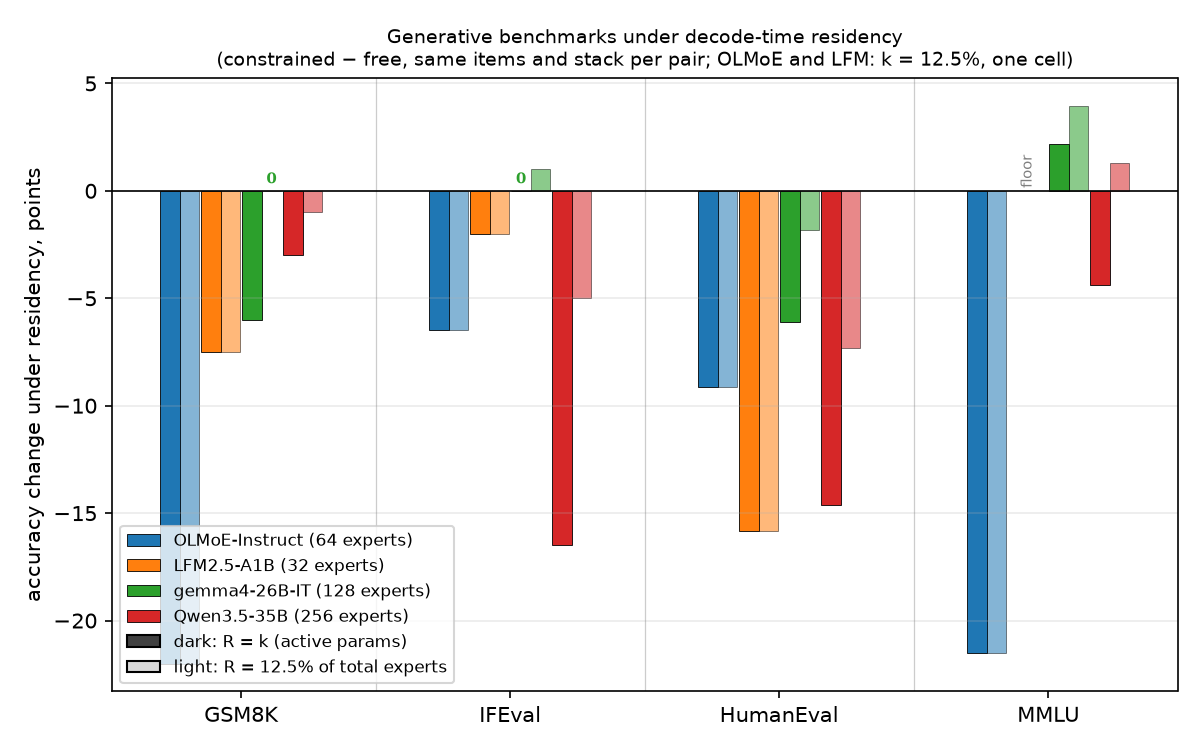
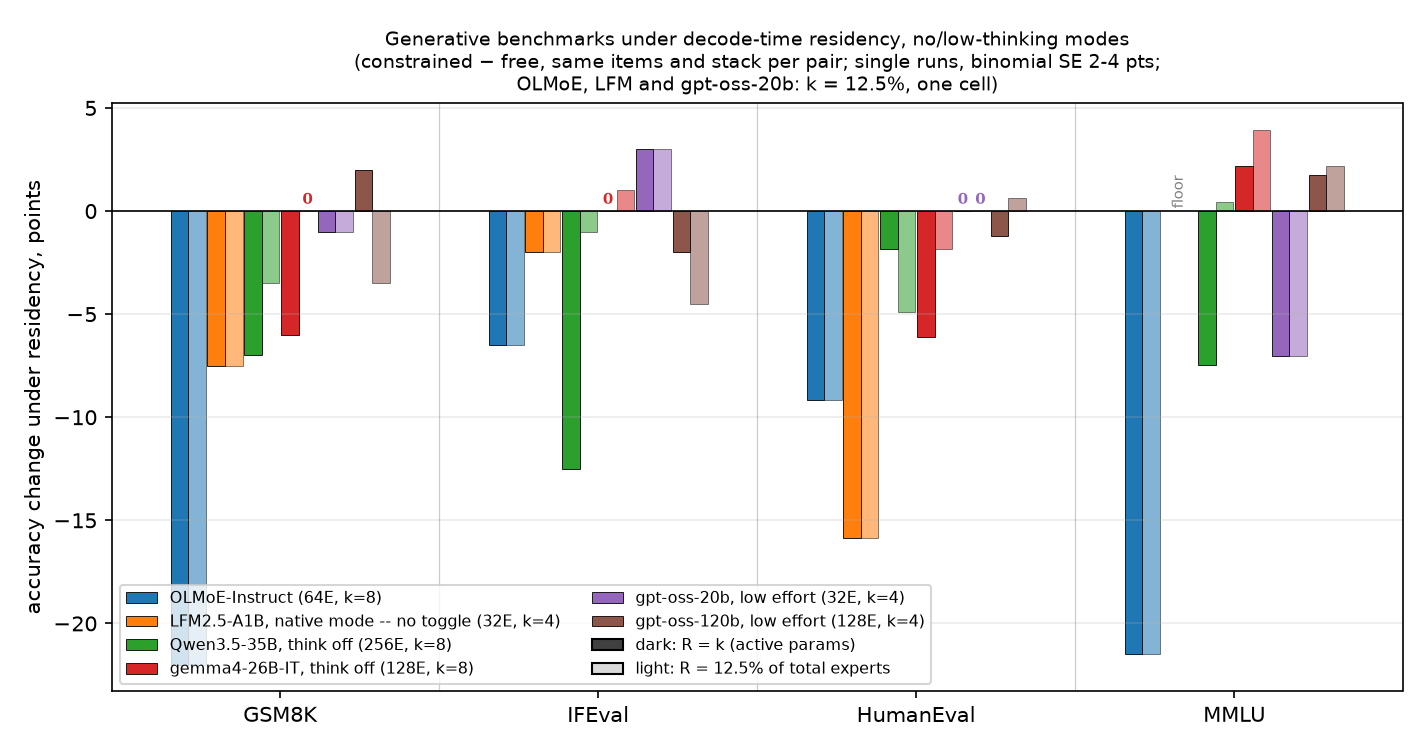
Per-benchmark damage figure: all six models, no/low-thinking modes, both residency levels (spec-driven bench())

diff --git a/analysis/residency/plot_instruct.py b/analysis/residency/plot_instruct.py
@@ -57,42 +57,59 @@ def selfce():
 
 
 def bench():
-    # deltas at R = 12.5% of E, per benchmark; floor cells excluded and marked
-    want = {"exact_match,flexible-extract": "GSM8K", "prompt_level_strict_acc,none": "IFEval",
-            "pass@1,create_test": "HumanEval", "exact_match,get-answer": "MMLU"}
-    arm125 = {"olmoe_instruct": "R8", "lfm25_instruct": "R4",
-              "gemma4_instruct": "R16", "qwen35_instruct": "R32"}
-    armk = {"olmoe_instruct": "R8", "lfm25_instruct": "R4",
-            "gemma4_instruct": "R8", "qwen35_instruct": "R8"}
-    floor = {("lfm25_instruct", "MMLU")}
+    # per-benchmark damage, all six models, no/low-thinking modes, both R levels
+    # (record, label, R=k arm, 12.5% arm, humaneval task, mmlu task; None = floor)
+    SPEC = [
+        ("olmoe_instruct", "OLMoE-Instruct (64E, k=8)", "R8", "R8",
+         "humaneval_instruct", "mmlu_flan_cot_fewshot"),
+        ("lfm25_instruct", "LFM2.5-A1B, native mode -- no toggle (32E, k=4)", "R4", "R4",
+         "humaneval_think", None),
+        ("qwen35_think_off", "Qwen3.5-35B, think off (256E, k=8)", "R8", "R32",
+         "humaneval_instruct", "mmlu_flan_cot_fewshot"),
+        ("gemma4_instruct", "gemma4-26B-IT, think off (128E, k=8)", "R8", "R16",
+         "humaneval_gemma_fixed", "mmlu_flan_cot_fewshot"),
+        ("gptoss_20b_low", "gpt-oss-20b, low effort (32E, k=4)", "R4", "R4",
+         "humaneval_gptoss", "mmlu_gptoss_relaxed"),
+        ("gptoss_120b_low", "gpt-oss-120b, low effort (128E, k=4)", "R4", "R16",
+         "humaneval_gptoss", "mmlu_gptoss_relaxed"),
+    ]
+    METRIC = {"gsm8k_cot_zeroshot": ("exact_match,flexible-extract",),
+              "ifeval": ("prompt_level_strict_acc,none",),
+              "mmlu_flan_cot_fewshot": ("exact_match,get-answer",),
+              "mmlu_gptoss_relaxed": ("acc,relaxed-extract",)}
     vals = {}
-    for f in ("instruct_genbench_vllm.csv",):   # live authoritative file only
-        for r in csv.reader(open(f"{ABLATIONS}/{f}")):
-            if len(r) > 8 and r[0] in NAMES and r[6] in want and r[8] != "10":
-                vals[(r[0], r[3], want[r[6]])] = float(r[7])
-            # channel-native humaneval variants are authoritative for think-in-text models
-            if len(r) > 7 and r[0] == "gemma4_instruct" and r[5] == "humaneval_gemma_fixed":
-                vals[(r[0], r[3], "HumanEval")] = float(r[7])
-            if len(r) > 7 and r[0] in ("lfm25_instruct", "qwen35_instruct") \
-                    and r[5] == "humaneval_think":
-                vals[(r[0], r[3], "HumanEval")] = float(r[7])
+    for r in csv.reader(open(f"{ABLATIONS}/instruct_genbench_vllm.csv")):
+        if len(r) < 10 or r[0].startswith("#") or r[0] == "model":
+            continue
+        rec, arm, task, met = r[0], r[3], r[5], r[6]
+        ok = met in METRIC.get(task, ()) or \
+            (task.startswith("humaneval") and met.startswith("pass@1"))
+        if ok:
+            vals[(rec, arm, task)] = float(r[7])
+
     benches = ["GSM8K", "IFEval", "HumanEval", "MMLU"]
-    models = list(NAMES)
-    fig, ax = plt.subplots(figsize=(8, 5))
+
+    def task_for(spec, b):
+        return {"GSM8K": "gsm8k_cot_zeroshot", "IFEval": "ifeval",
+                "HumanEval": spec[4], "MMLU": spec[5]}[b]
+
+    fig, ax = plt.subplots(figsize=(9.5, 5))
     cols = plt.cm.tab10(np.linspace(0, 1, 10))
-    w = 0.105
+    w = 0.08
     GX = 1.45                                    # group spacing factor
-    for i, m in enumerate(models):
-        for shade, (arms, tag) in enumerate((( armk, "R=k"), (arm125, "12.5%"))):
+    for i, spec in enumerate(SPEC):
+        rec, label = spec[0], spec[1]
+        for shade, (arm, tag) in enumerate(((spec[2], "R=k"), (spec[3], "12.5%"))):
             xs, ys = [], []
             for j, b in enumerate(benches):
-                x = j * GX + (i - 1.5) * 2.1 * w + (shade - 0.5) * w
-                if (m, b) in floor:
+                x = j * GX + (i - 2.5) * 2.1 * w + (shade - 0.5) * w
+                task = task_for(spec, b)
+                if task is None:
                     if shade == 0:
-                        ax.annotate("floor", (j * GX + (i - 1.5) * 2.1 * w, 0.3),
+                        ax.annotate("floor", (j * GX + (i - 2.5) * 2.1 * w, 0.3),
                                     fontsize=7, rotation=90, ha="center", color="grey")
                     continue
-                fr, cn = vals.get((m, "free", b)), vals.get((m, arms[m], b))
+                fr, cn = vals.get((rec, "free", task)), vals.get((rec, arm, task))
                 if fr is None or cn is None:
                     continue
                 d = 100 * (cn - fr)
@@ -103,7 +120,7 @@ def bench():
                 ys.append(d)
             ax.bar(xs, ys, width=w, color=cols[i], edgecolor="black", lw=0.4,
                    alpha=1.0 if shade == 0 else 0.55,
-                   label=NAMES[m] if shade == 0 else None)
+                   label=label if shade == 0 else None)
     for j in range(len(benches) - 1):
         ax.axvline((j + 0.5) * GX, color="grey", lw=0.6, alpha=0.4)
     from matplotlib.patches import Patch
@@ -115,12 +132,13 @@ def bench():
     ax.set_xticks([j * GX for j in range(len(benches))])
     ax.set_xticklabels(benches)
     ax.set_ylabel("accuracy change under residency, points")
-    ax.set_title("Generative benchmarks under decode-time residency\n"
-                 "(constrained − free, same items and stack per pair; "
-                 "OLMoE and LFM: k = 12.5%, one cell)", fontsize=9)
+    ax.set_title("Generative benchmarks under decode-time residency, no/low-thinking modes\n"
+                 "(constrained − free, same items and stack per pair; single runs, "
+                 "binomial SE 2-4 pts;\nOLMoE, LFM and gpt-oss-20b: k = 12.5%, one cell)",
+                 fontsize=9)
     handles, labels = ax.get_legend_handles_labels()
     ax.legend(handles + shade_handles, labels + [h.get_label() for h in shade_handles],
-              fontsize=8)
+              fontsize=7.5, ncol=2)
     ax.grid(alpha=0.25, axis="y")
     fig.tight_layout()
     fig.savefig(f"{FIG}/instruct_bench_damage.png", dpi=150)
